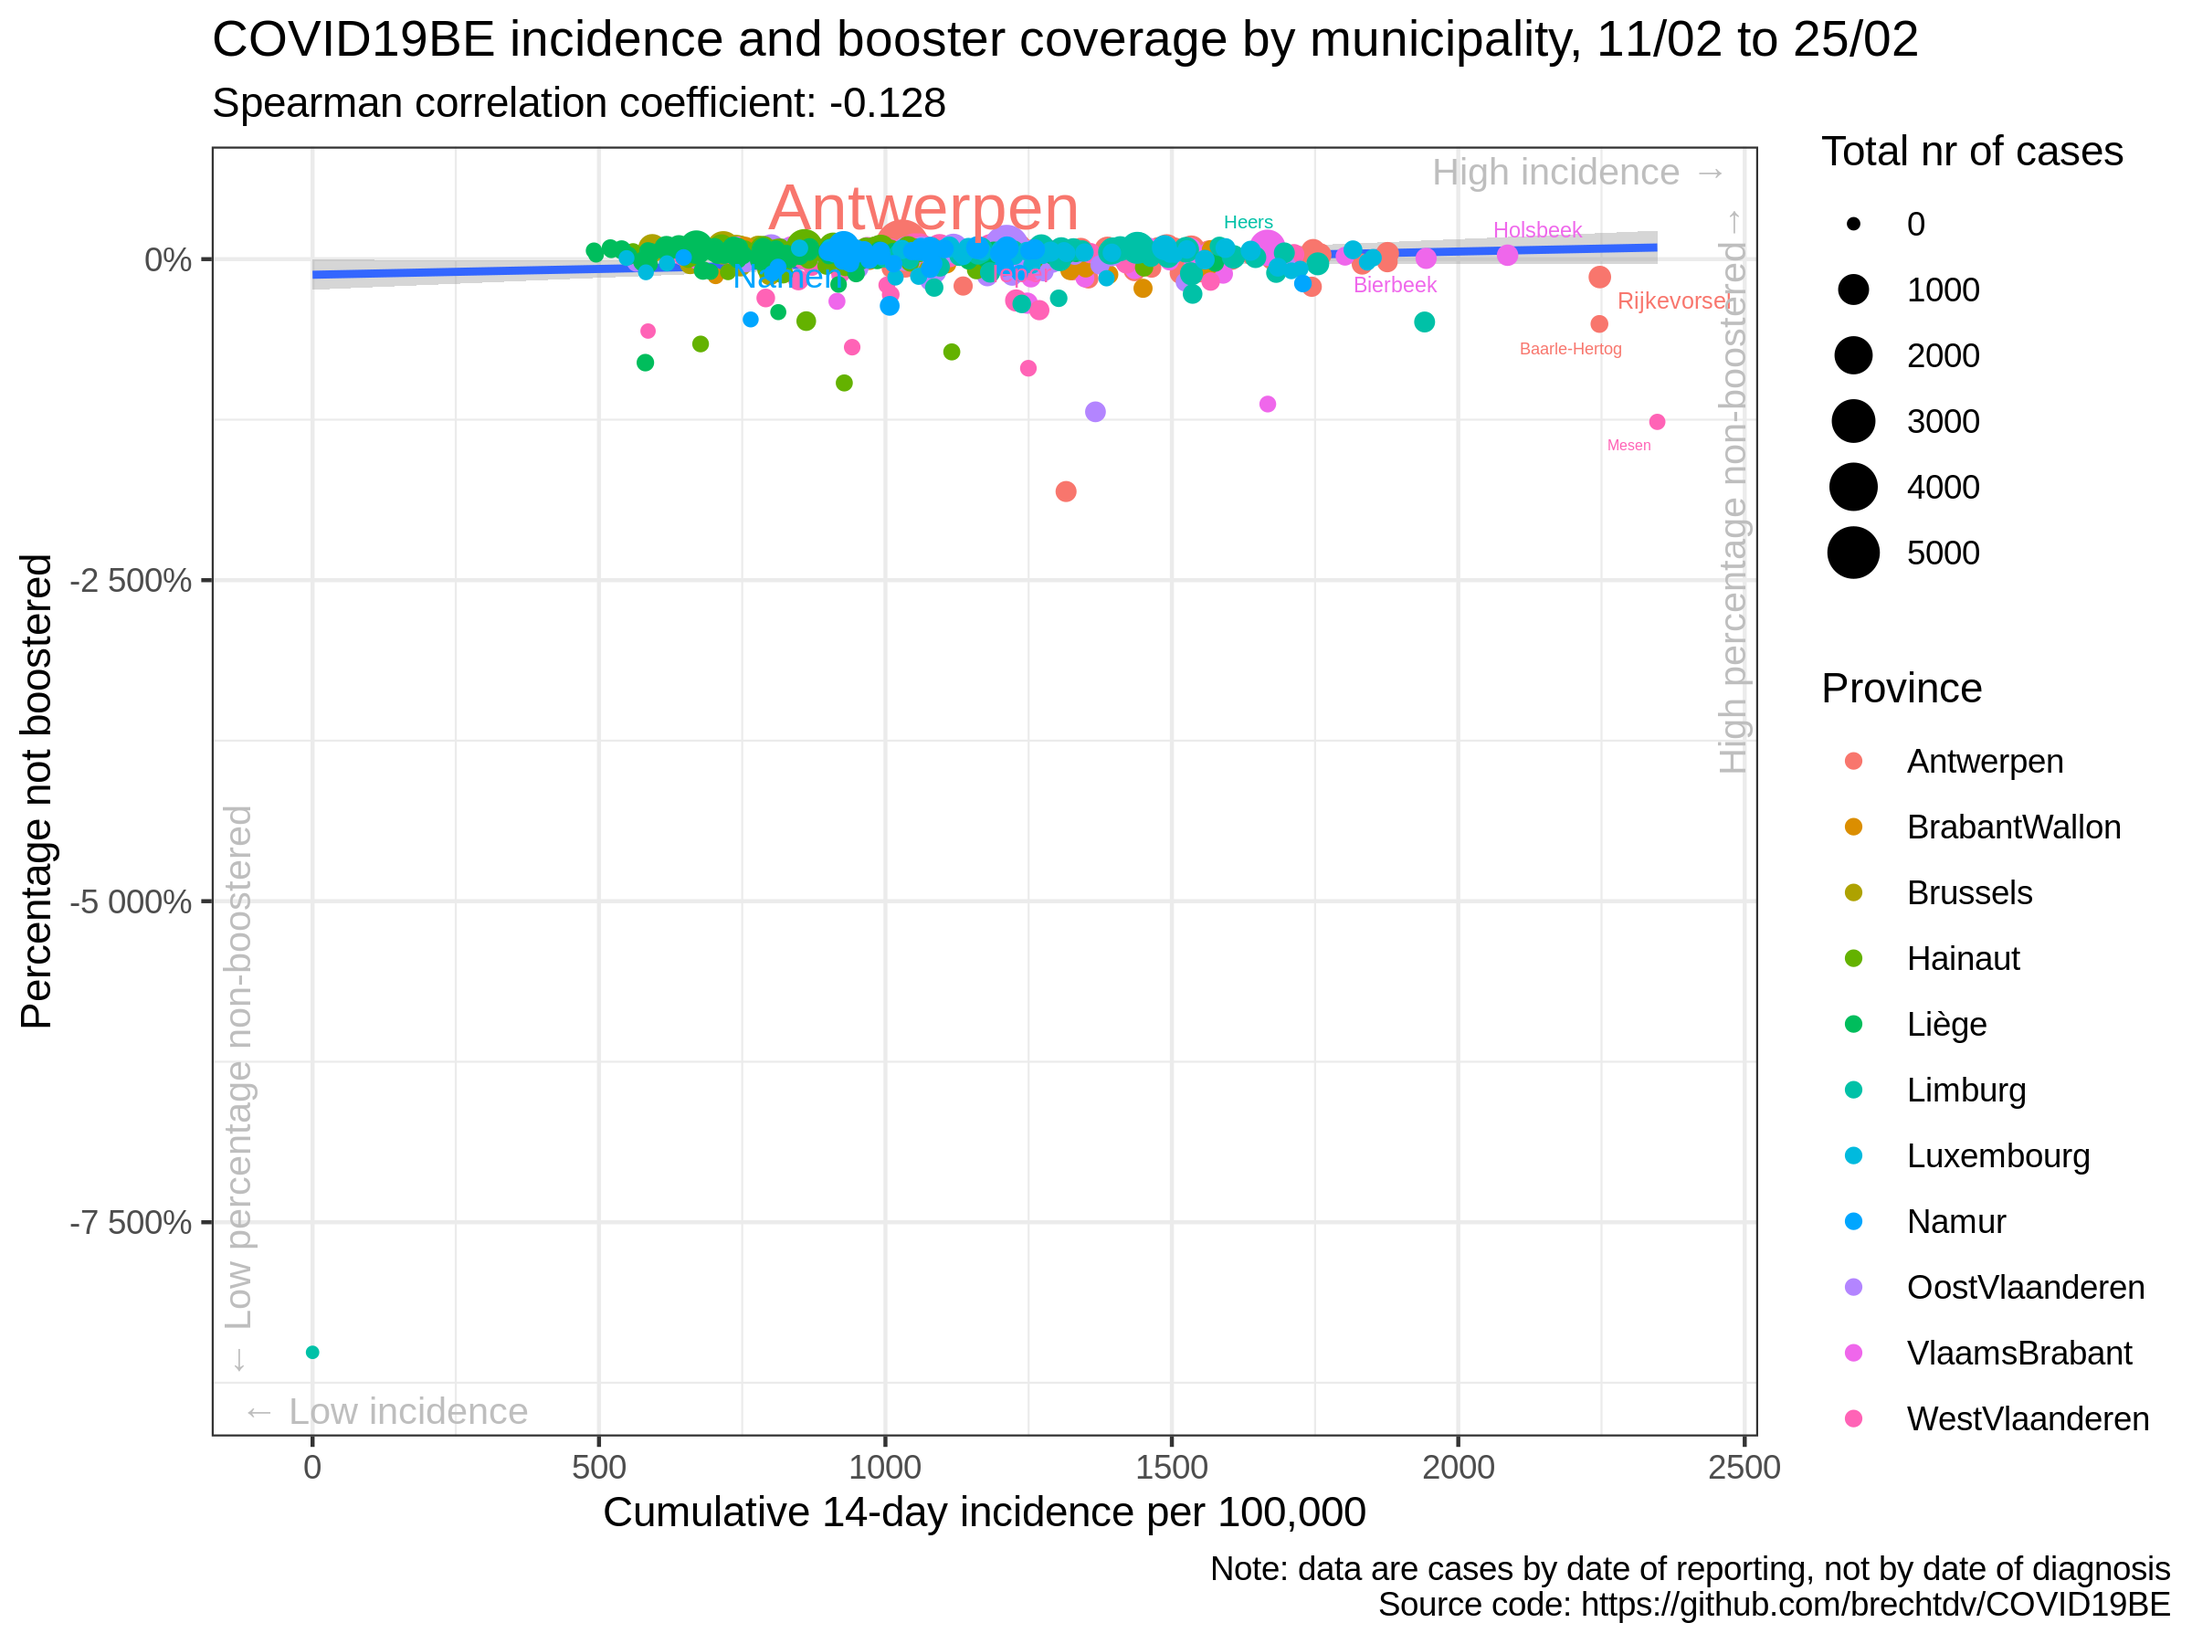
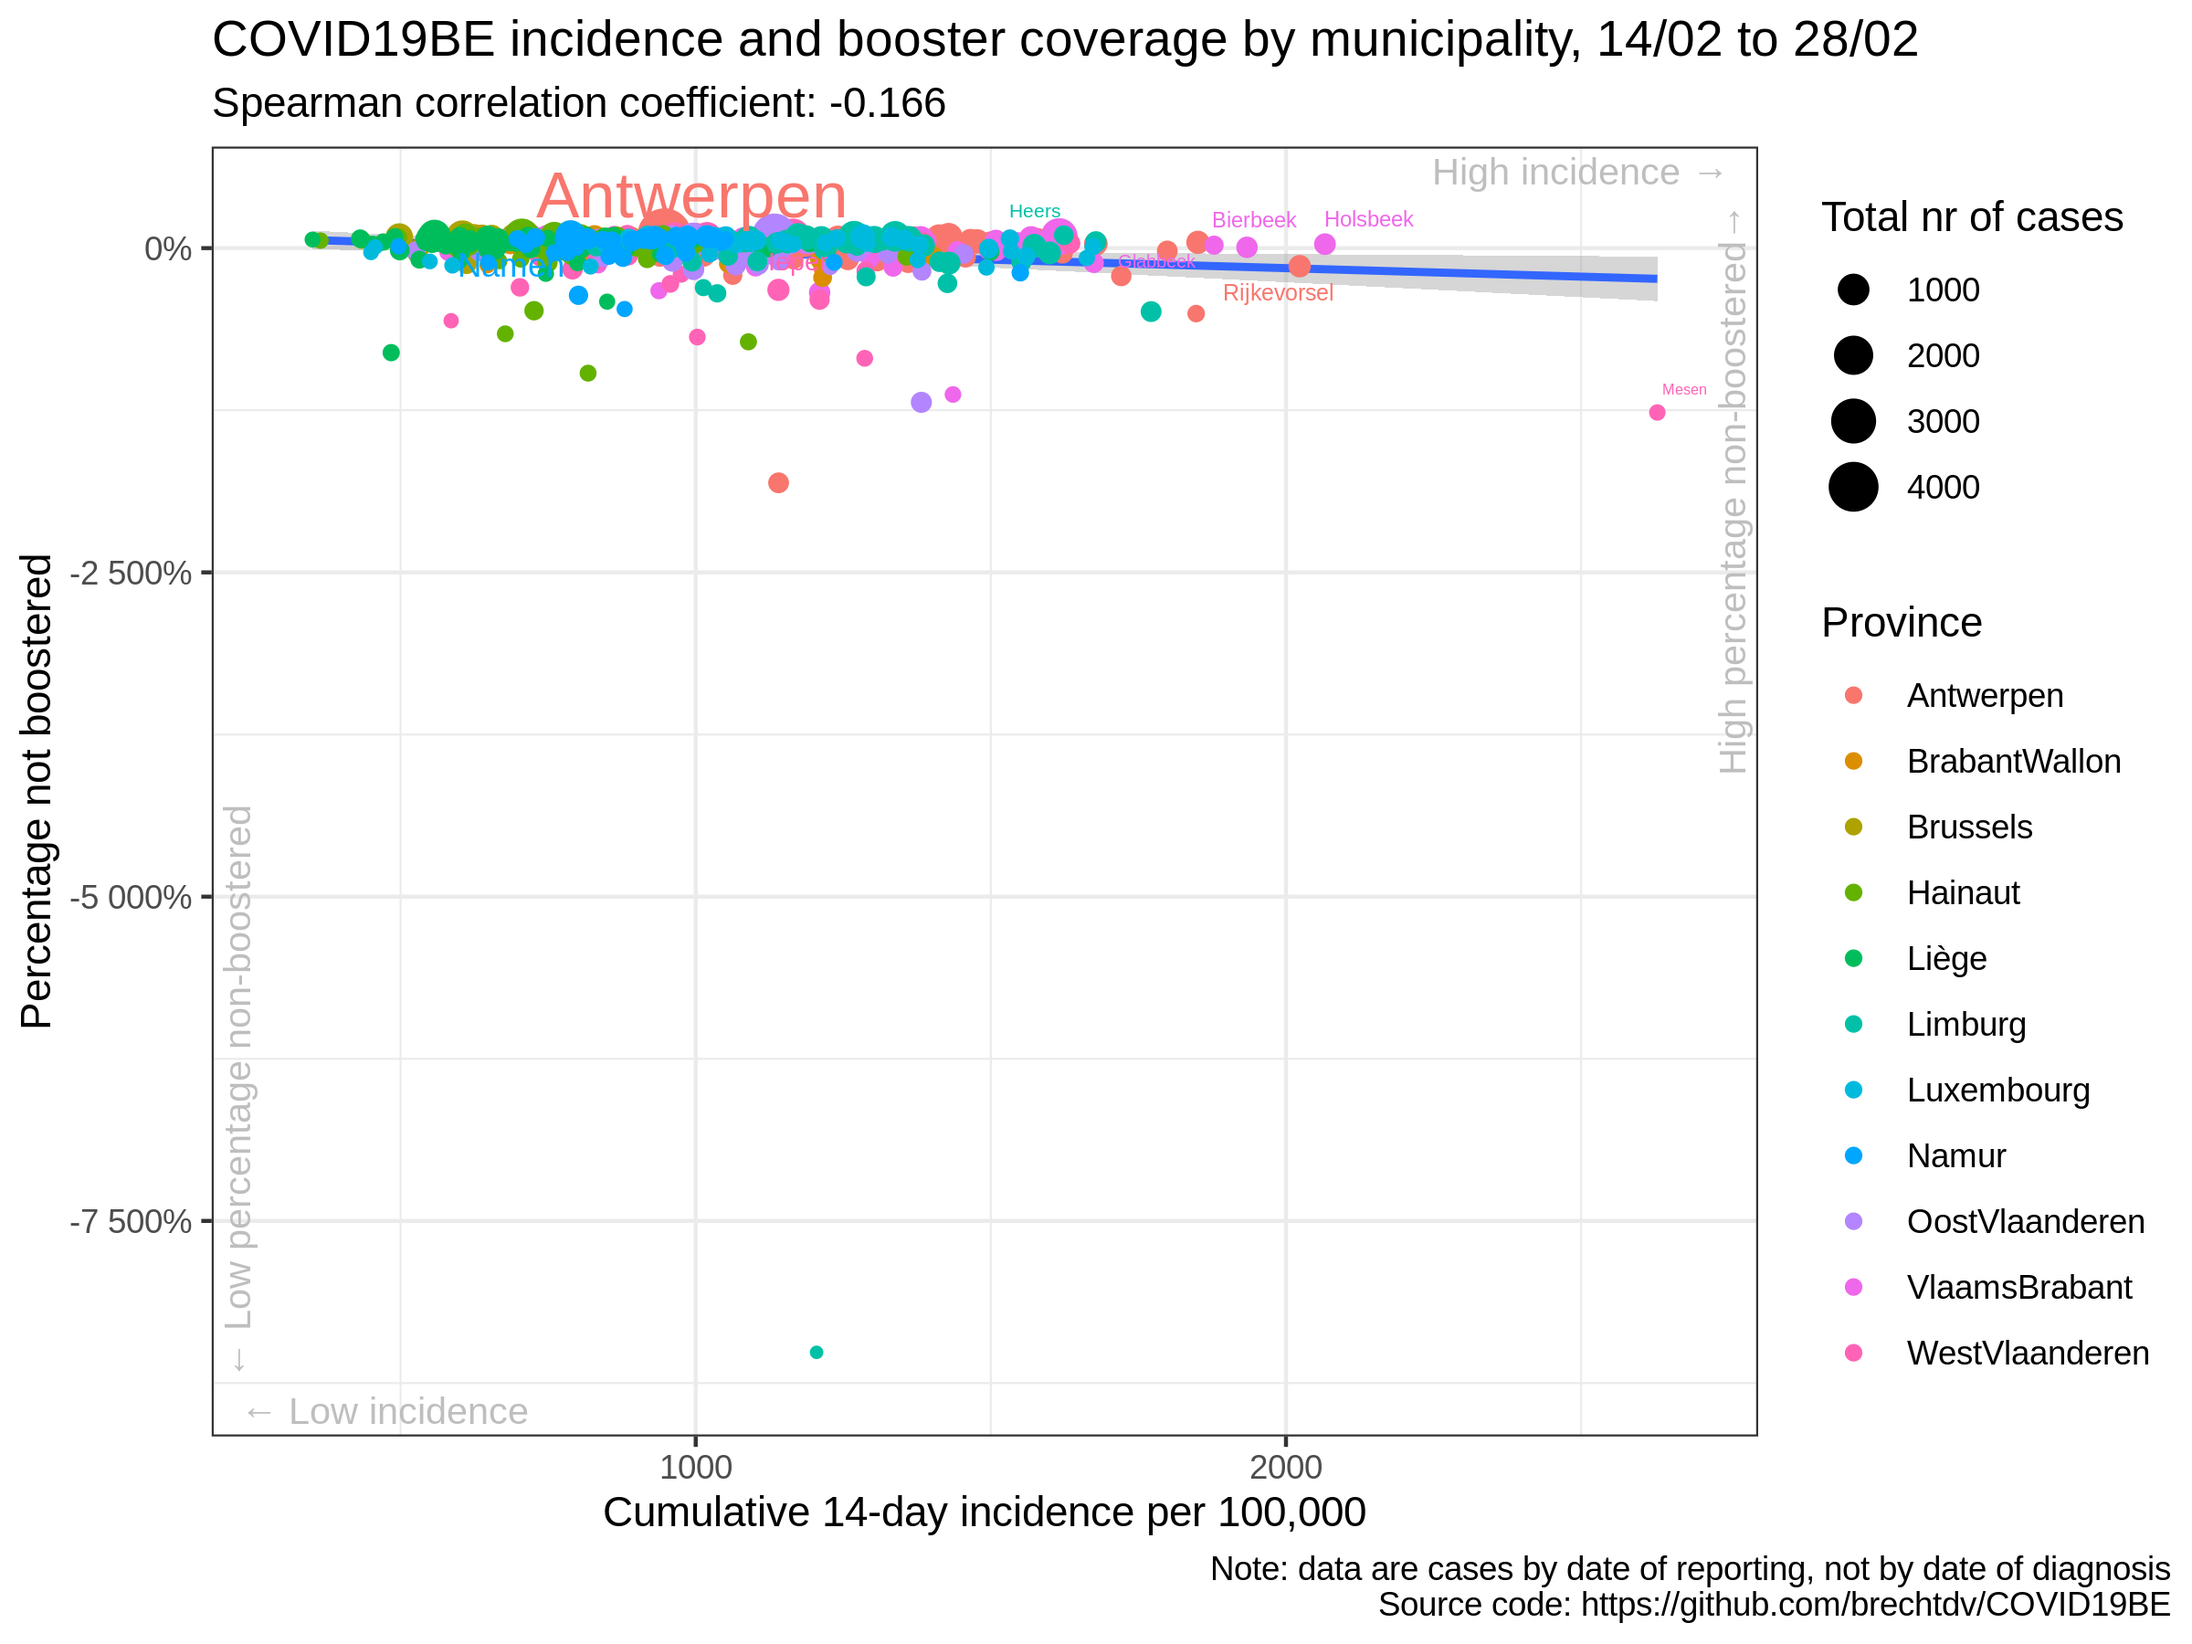
update situation

diff --git a/vaccination/README.md b/vaccination/README.md
@@ -17,35 +17,35 @@
 
 |                | estimate.rho | p.value |
 | :------------- | -----------: | ------: |
-| Antwerpen      |      \-0.133 |   0.277 |
-| BrabantWallon  |      \-0.302 |   0.126 |
-| Brussels       |      \-0.140 |   0.565 |
-| Hainaut        |      \-0.045 |   0.711 |
-| Liège          |      \-0.193 |   0.078 |
-| Limburg        |        0.059 |   0.708 |
-| Luxembourg     |      \-0.092 |   0.551 |
-| Namur          |        0.134 |   0.429 |
-| OostVlaanderen |      \-0.153 |   0.243 |
-| VlaamsBrabant  |      \-0.125 |   0.321 |
-| WestVlaanderen |        0.118 |   0.351 |
-| Belgium        |      \-0.093 |   0.025 |
+| Antwerpen      |      \-0.070 |   0.564 |
+| BrabantWallon  |      \-0.341 |   0.083 |
+| Brussels       |        0.005 |   0.986 |
+| Hainaut        |      \-0.126 |   0.300 |
+| Liège          |      \-0.178 |   0.105 |
+| Limburg        |        0.026 |   0.870 |
+| Luxembourg     |      \-0.117 |   0.447 |
+| Namur          |        0.087 |   0.608 |
+| OostVlaanderen |      \-0.242 |   0.062 |
+| VlaamsBrabant  |      \-0.139 |   0.268 |
+| WestVlaanderen |        0.070 |   0.583 |
+| Belgium        |      \-0.124 |   0.003 |
 
 ### Correlation cumulative incidence vs booster rate
 
 |                | estimate.rho | p.value |
 | :------------- | -----------: | ------: |
-| Antwerpen      |      \-0.142 |   0.242 |
-| BrabantWallon  |      \-0.299 |   0.130 |
-| Brussels       |      \-0.154 |   0.527 |
-| Hainaut        |      \-0.052 |   0.671 |
-| Liège          |      \-0.194 |   0.077 |
-| Limburg        |        0.063 |   0.693 |
-| Luxembourg     |      \-0.085 |   0.583 |
-| Namur          |        0.149 |   0.376 |
-| OostVlaanderen |      \-0.154 |   0.238 |
-| VlaamsBrabant  |      \-0.155 |   0.217 |
-| WestVlaanderen |        0.116 |   0.360 |
-| Belgium        |      \-0.128 |   0.002 |
+| Antwerpen      |      \-0.081 |   0.505 |
+| BrabantWallon  |      \-0.333 |   0.090 |
+| Brussels       |        0.018 |   0.945 |
+| Hainaut        |      \-0.137 |   0.262 |
+| Liège          |      \-0.182 |   0.097 |
+| Limburg        |        0.032 |   0.842 |
+| Luxembourg     |      \-0.115 |   0.457 |
+| Namur          |        0.107 |   0.527 |
+| OostVlaanderen |      \-0.243 |   0.062 |
+| VlaamsBrabant  |      \-0.169 |   0.178 |
+| WestVlaanderen |        0.069 |   0.586 |
+| Belgium        |      \-0.166 |   0.000 |
 
 ### Data source
 
